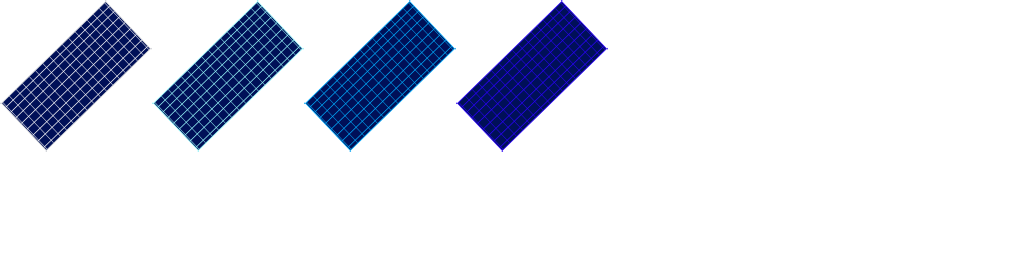
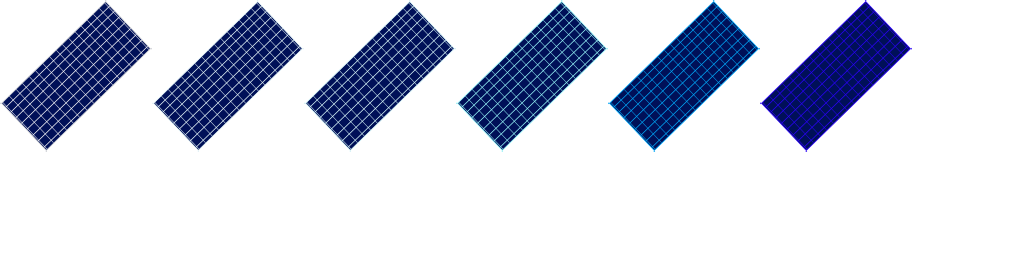
no message

diff --git a/core/src/com/mypjgdx/esg/game/objects/SolarCell.java b/core/src/com/mypjgdx/esg/game/objects/SolarCell.java
@@ -21,7 +21,7 @@ public class SolarCell extends Item{
 	}
 
 	private void init() {
-        addNormalAnimation(AnimationName.OFF, FRAME_DURATION, 12, 3);
+        addNormalAnimation(AnimationName.OFF, FRAME_DURATION, 3, 3);
         addLoopAnimation(AnimationName.ON, FRAME_DURATION, 0, 3);
 		// TODO Auto-generated method stub
 
